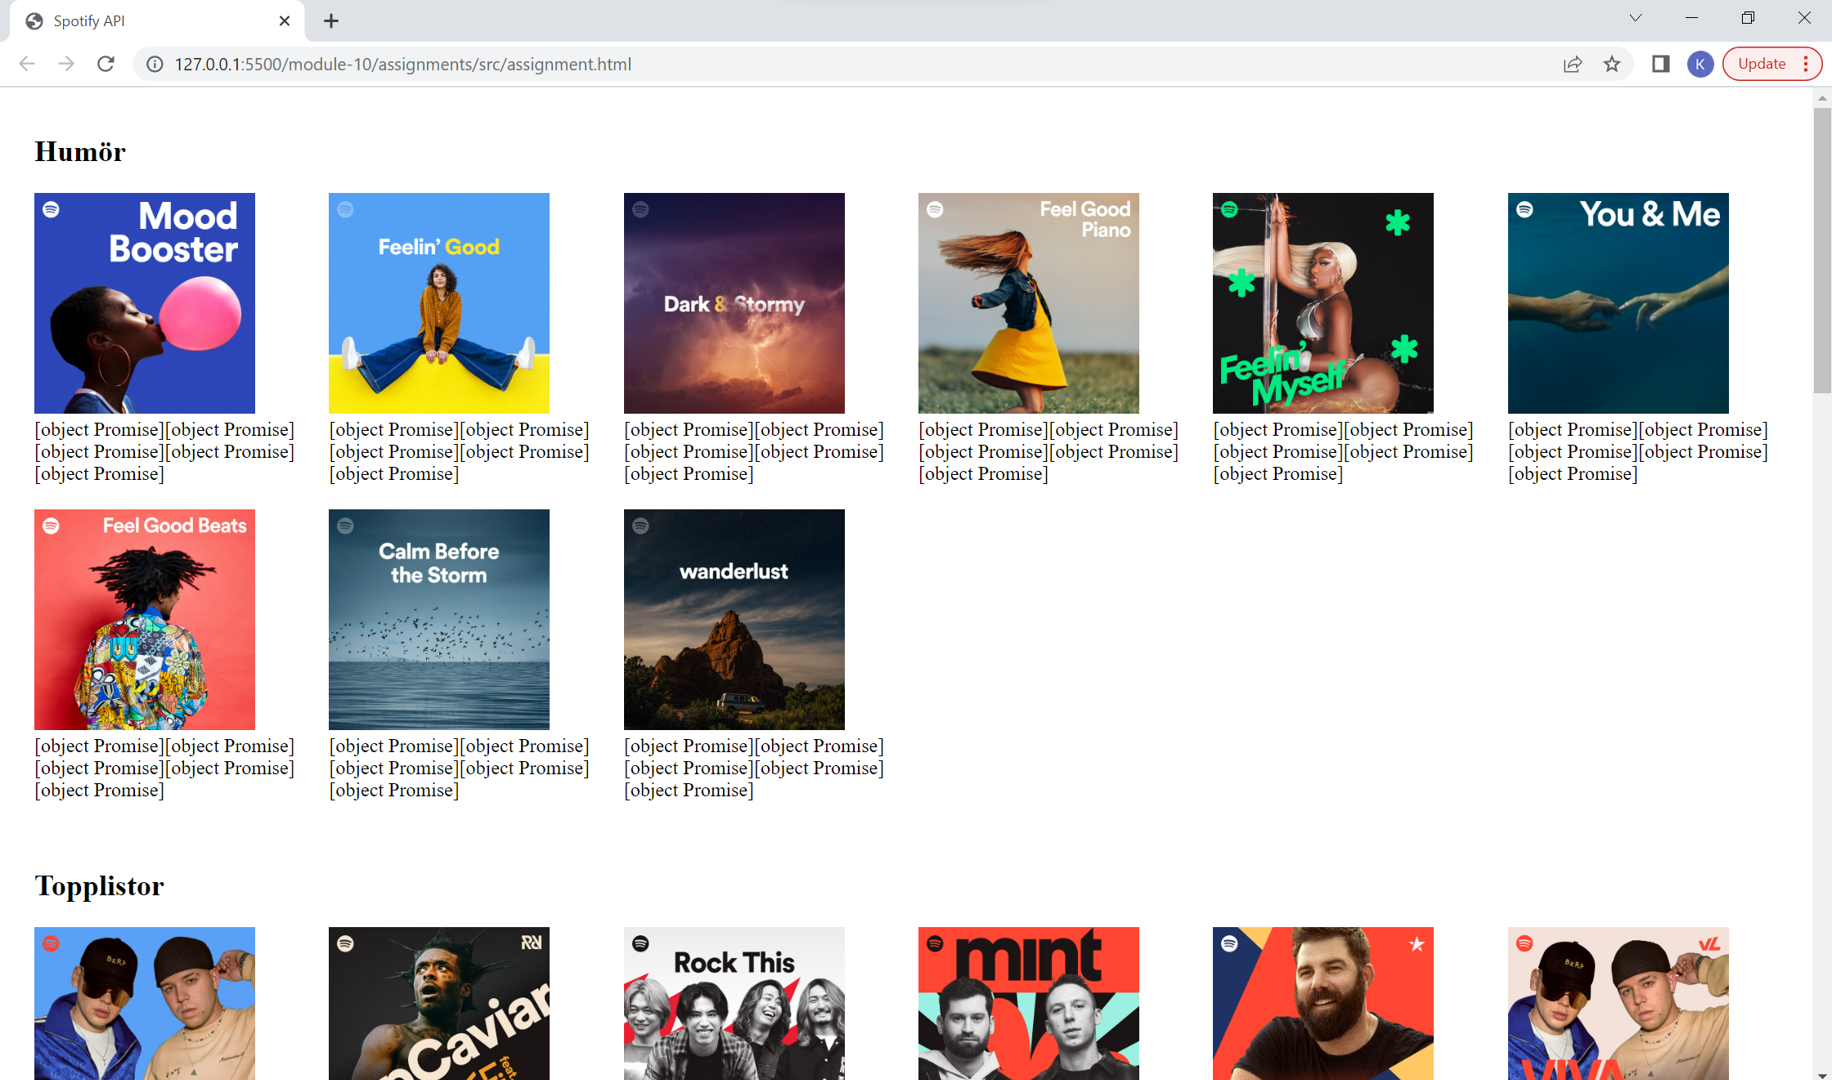
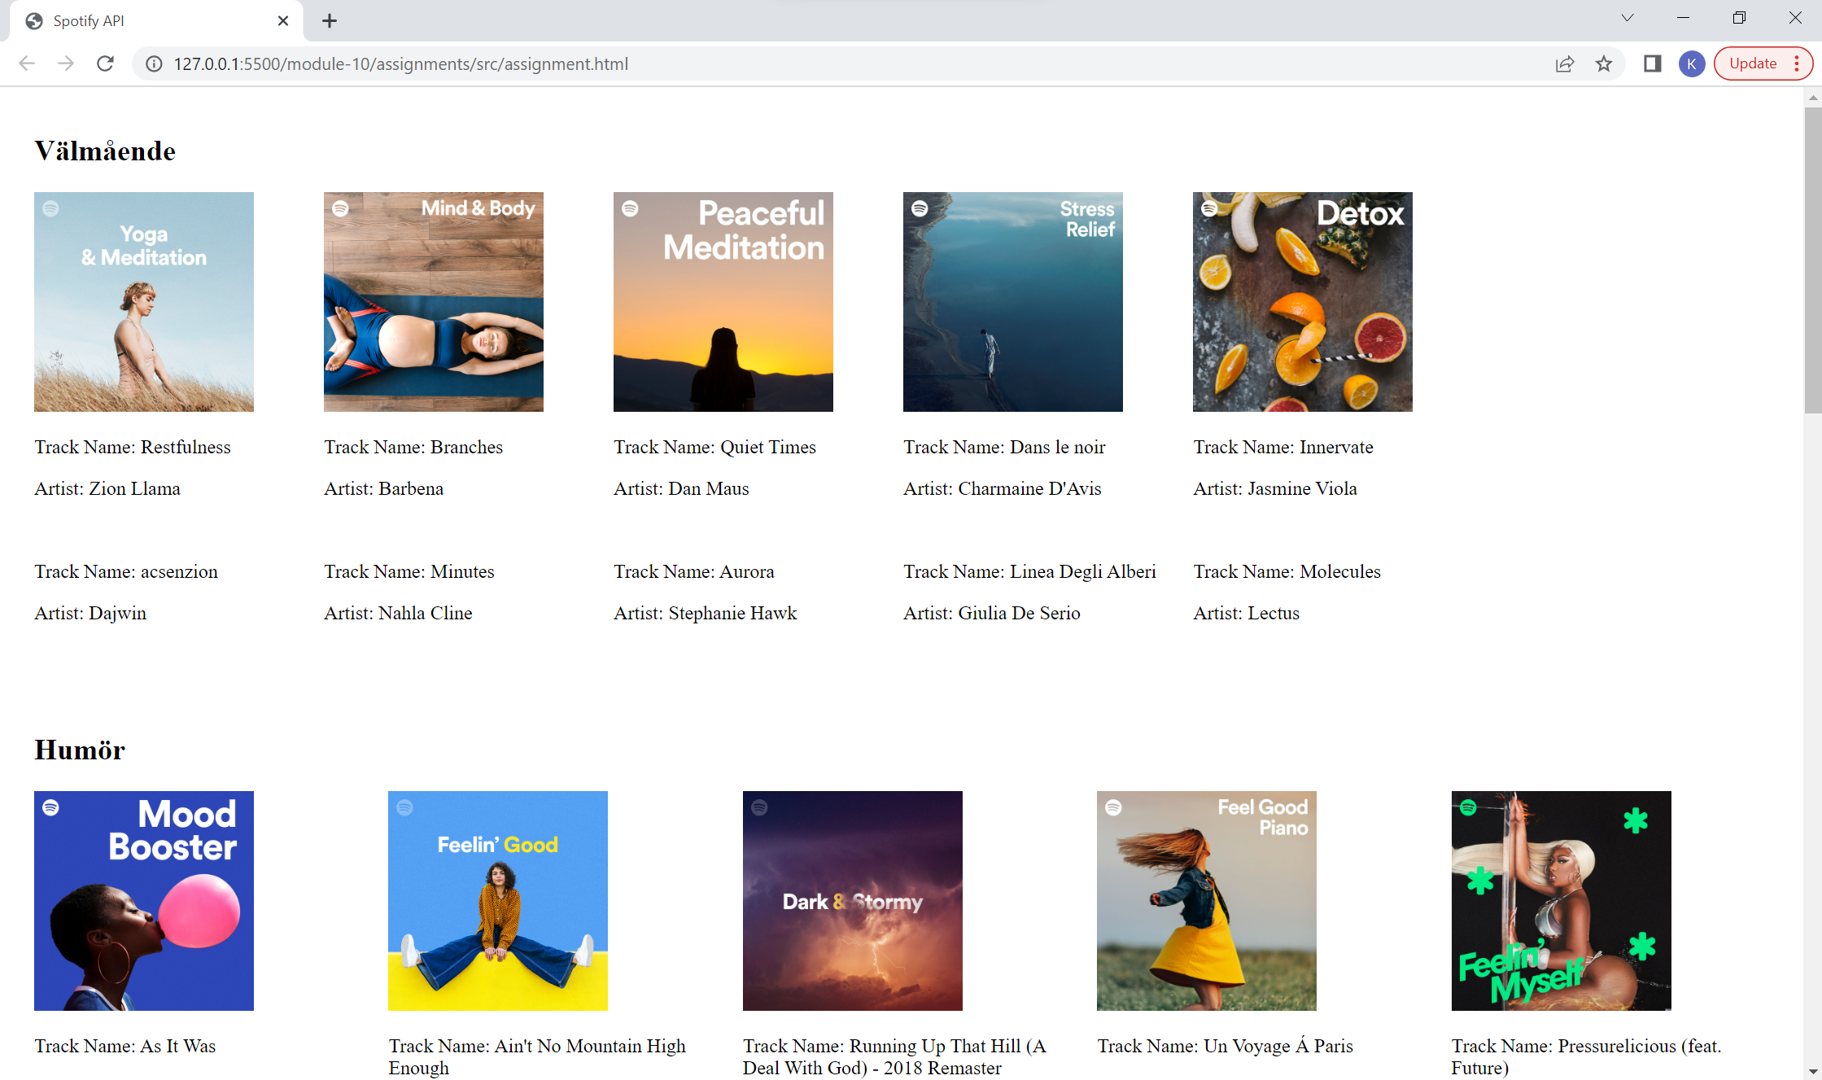
update

diff --git a/module-10/assignments/src/assignment.js b/module-10/assignments/src/assignment.js
@@ -29,7 +29,7 @@ const getGenres = async (token) => {
 };
 
 const getPlaylistByGenre = async (token, genreId) => {
-  const limit = 12;
+  const limit = 5;
 
   const result = await fetch(
     `https://api.spotify.com/v1/browse/categories/${genreId}/playlists?limit=${limit}`,
@@ -44,7 +44,7 @@ const getPlaylistByGenre = async (token, genreId) => {
   return data.playlists.items;
 };
 const getTrackByPlaylist = async (token, tracks) => {
-    const limit = 5;
+    const limit =2;
   
     const result = await fetch(
       `${tracks.href}/?limit=${limit}`,
@@ -68,9 +68,10 @@ const loadGenres = async () => {
       .map(
         async ({ name, external_urls: { spotify }, images: [image],tracks}) => {
             const getTracks = await getTrackByPlaylist(token,tracks);
-            const tracksList = getTracks.map(async({track:{name,artists:[artist]}})=>{
-                `<h3>Track Name: ${name}</h3>
-                 <h3>Artist: ${artist.name}</h3><br>`
+            const tracksList = getTracks.map(({track:{name,artists:[artist]}})=>{
+                return`
+                 <p>Track Name: ${name}</p>
+                 <p>Artist: ${artist.name}</p><br>`
             }).join(``);
             return `
             <li>

diff --git a/module-10/assignments/src/assignment.css b/module-10/assignments/src/assignment.css
@@ -26,8 +26,8 @@
     margin: 0;
     padding: 0;
     display:grid;
-    grid-template-columns: repeat(6, 1fr);
-    grid-gap: 20px;
+    grid-template-columns: repeat(5, 1fr);
+    grid-gap: 30px;
     overflow: auto;
     max-width: 100%;
   }
